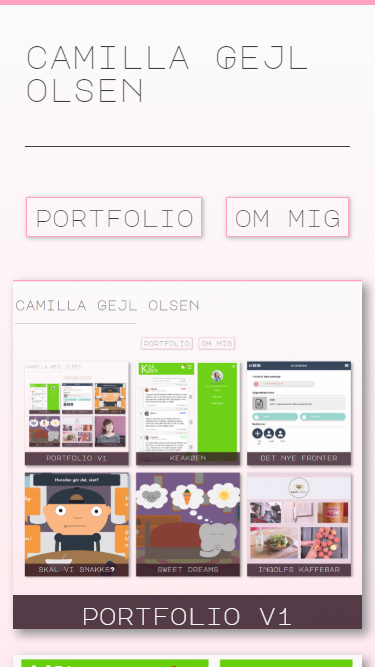
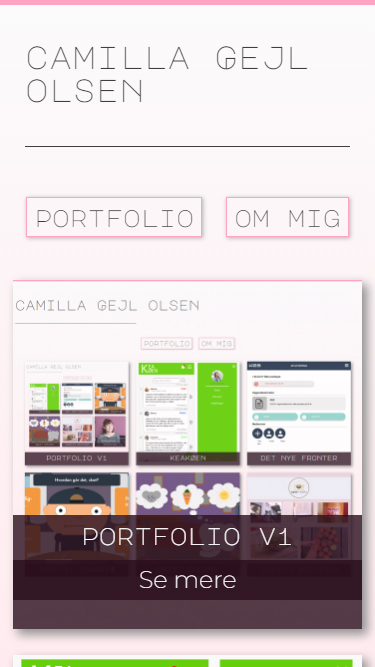
Added portfolio v1 details

diff --git a/portfolio.html b/portfolio.html
@@ -157,6 +157,13 @@
                             tekst. Jeg har samtidig holdt det i et rimelig simpelt design med fokus på indhold, og har
                             holdt det hele på én side, med modalvinduer som dukker op når man trykker på et element.
                         </p>
+                        <p>
+                            Det meste af hjemmesiden er opbygget med flexboxe og mediaqueries, som gør, at det er
+                            responsivt og vil fungere til de fleste skærmstørrelser. Udover skaleringen af
+                            skærmstørrelsen har jeg også brugt javaScript til at se, om siden vises på et touch device,
+                            for at sørge for, at man på computeren kan hover over de forskellige portfolio items, mens
+                            der på touch devices kun vises titlen og "vis mere".
+                        </p>
                     </div>
                     <div class="portfolio__images">
                         <img src="elements/portfolio_v1_2.jpg" alt="Screenshot af portfolio">
